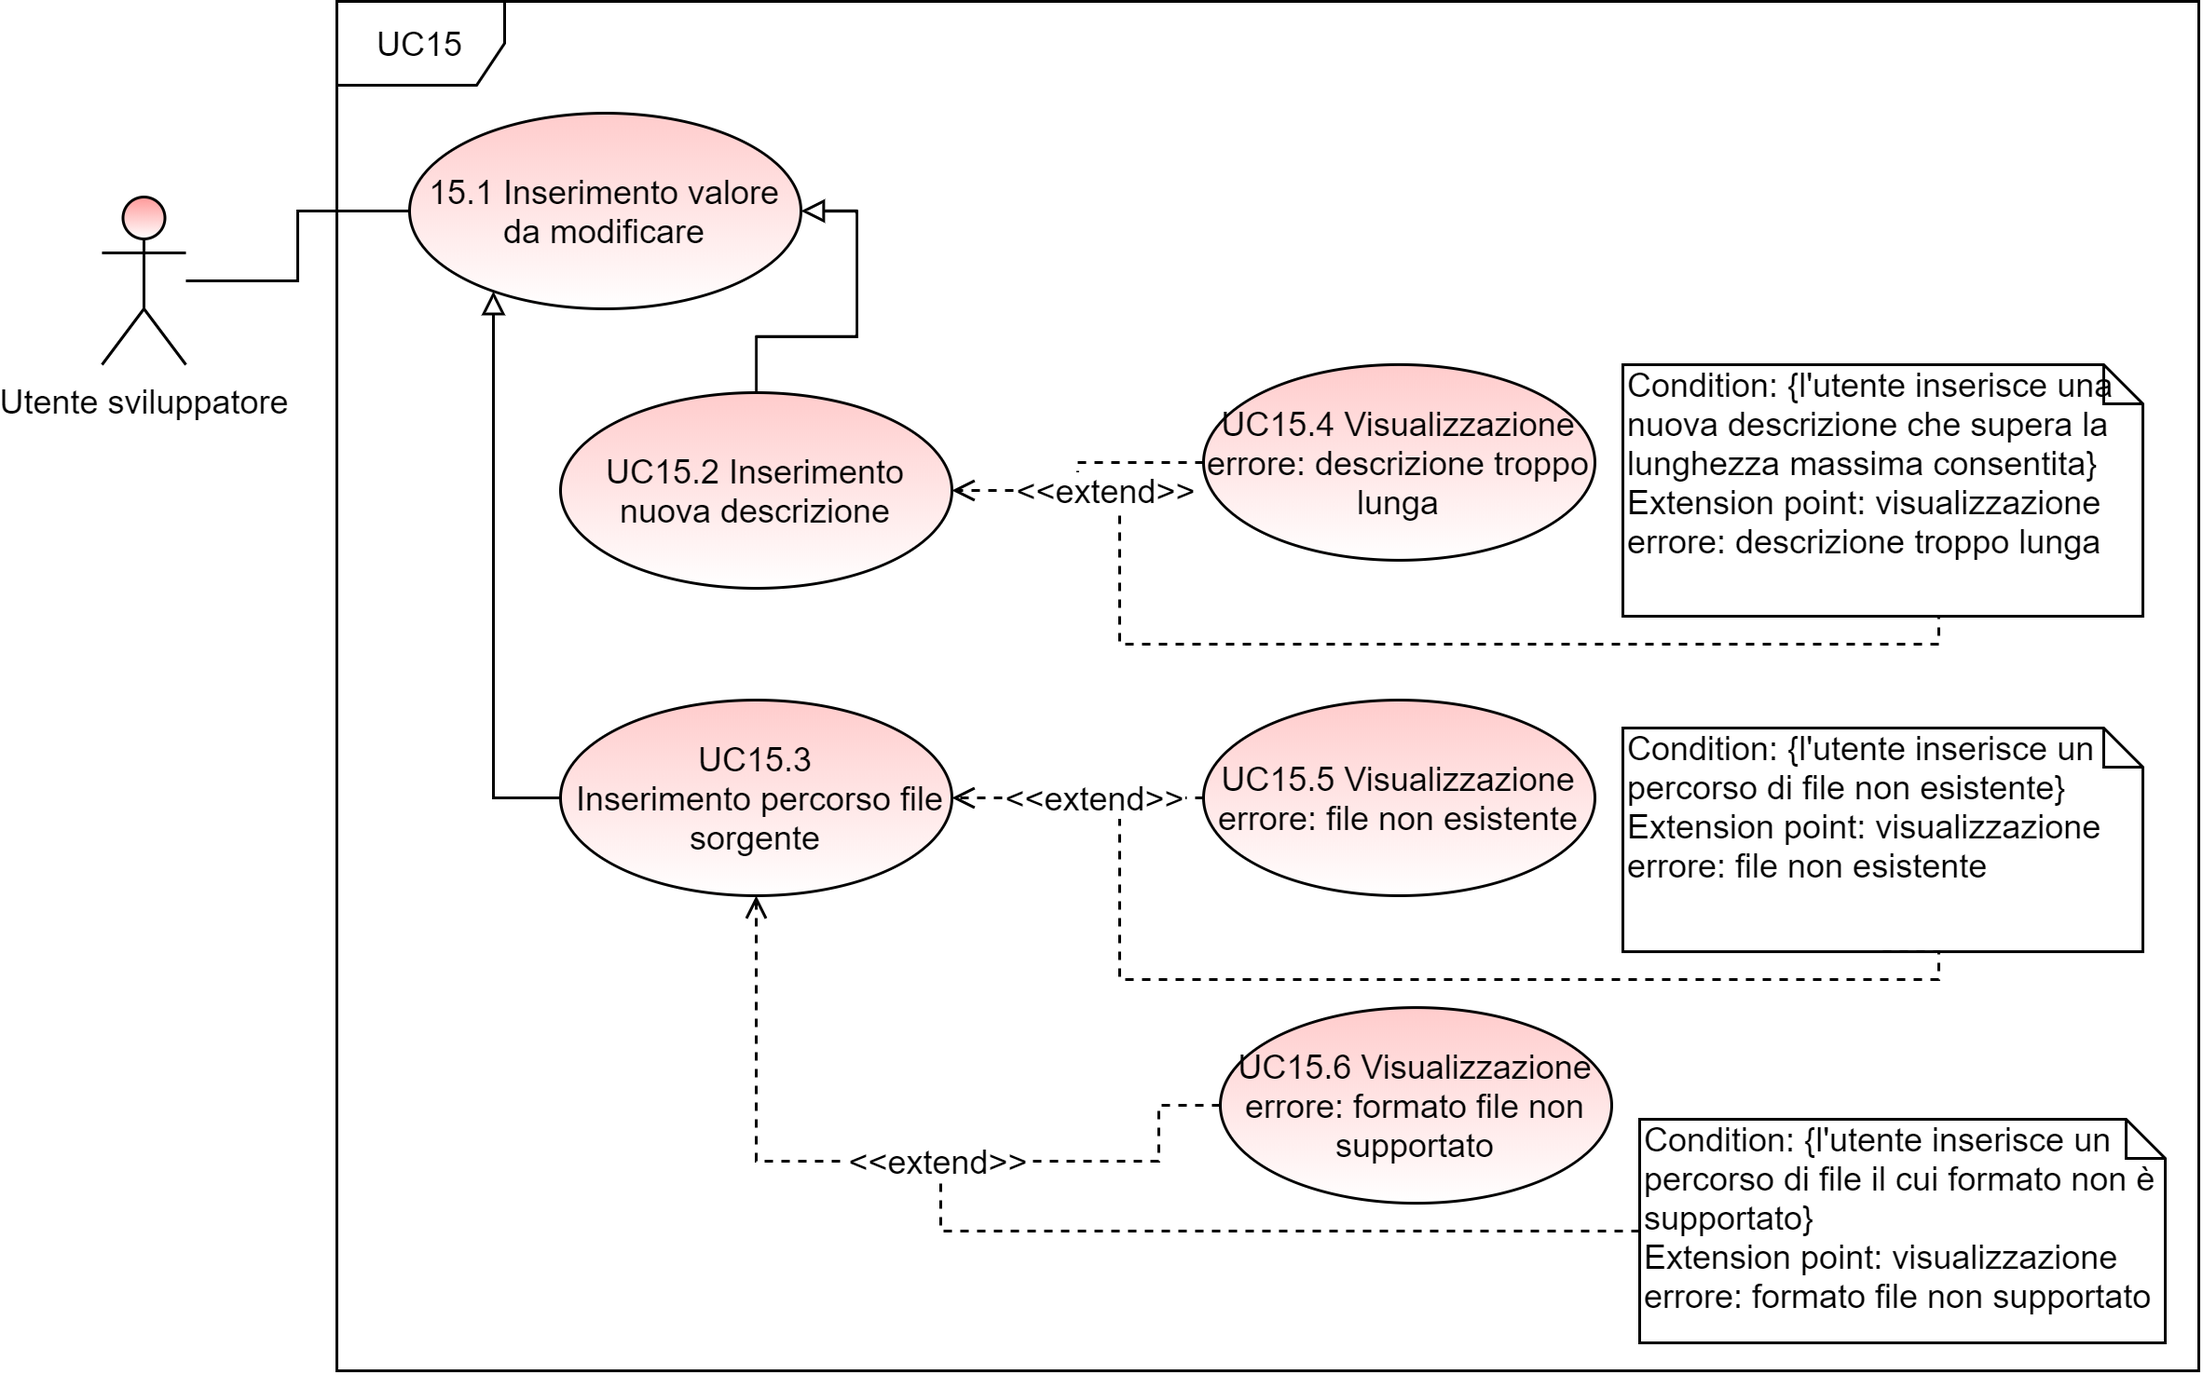
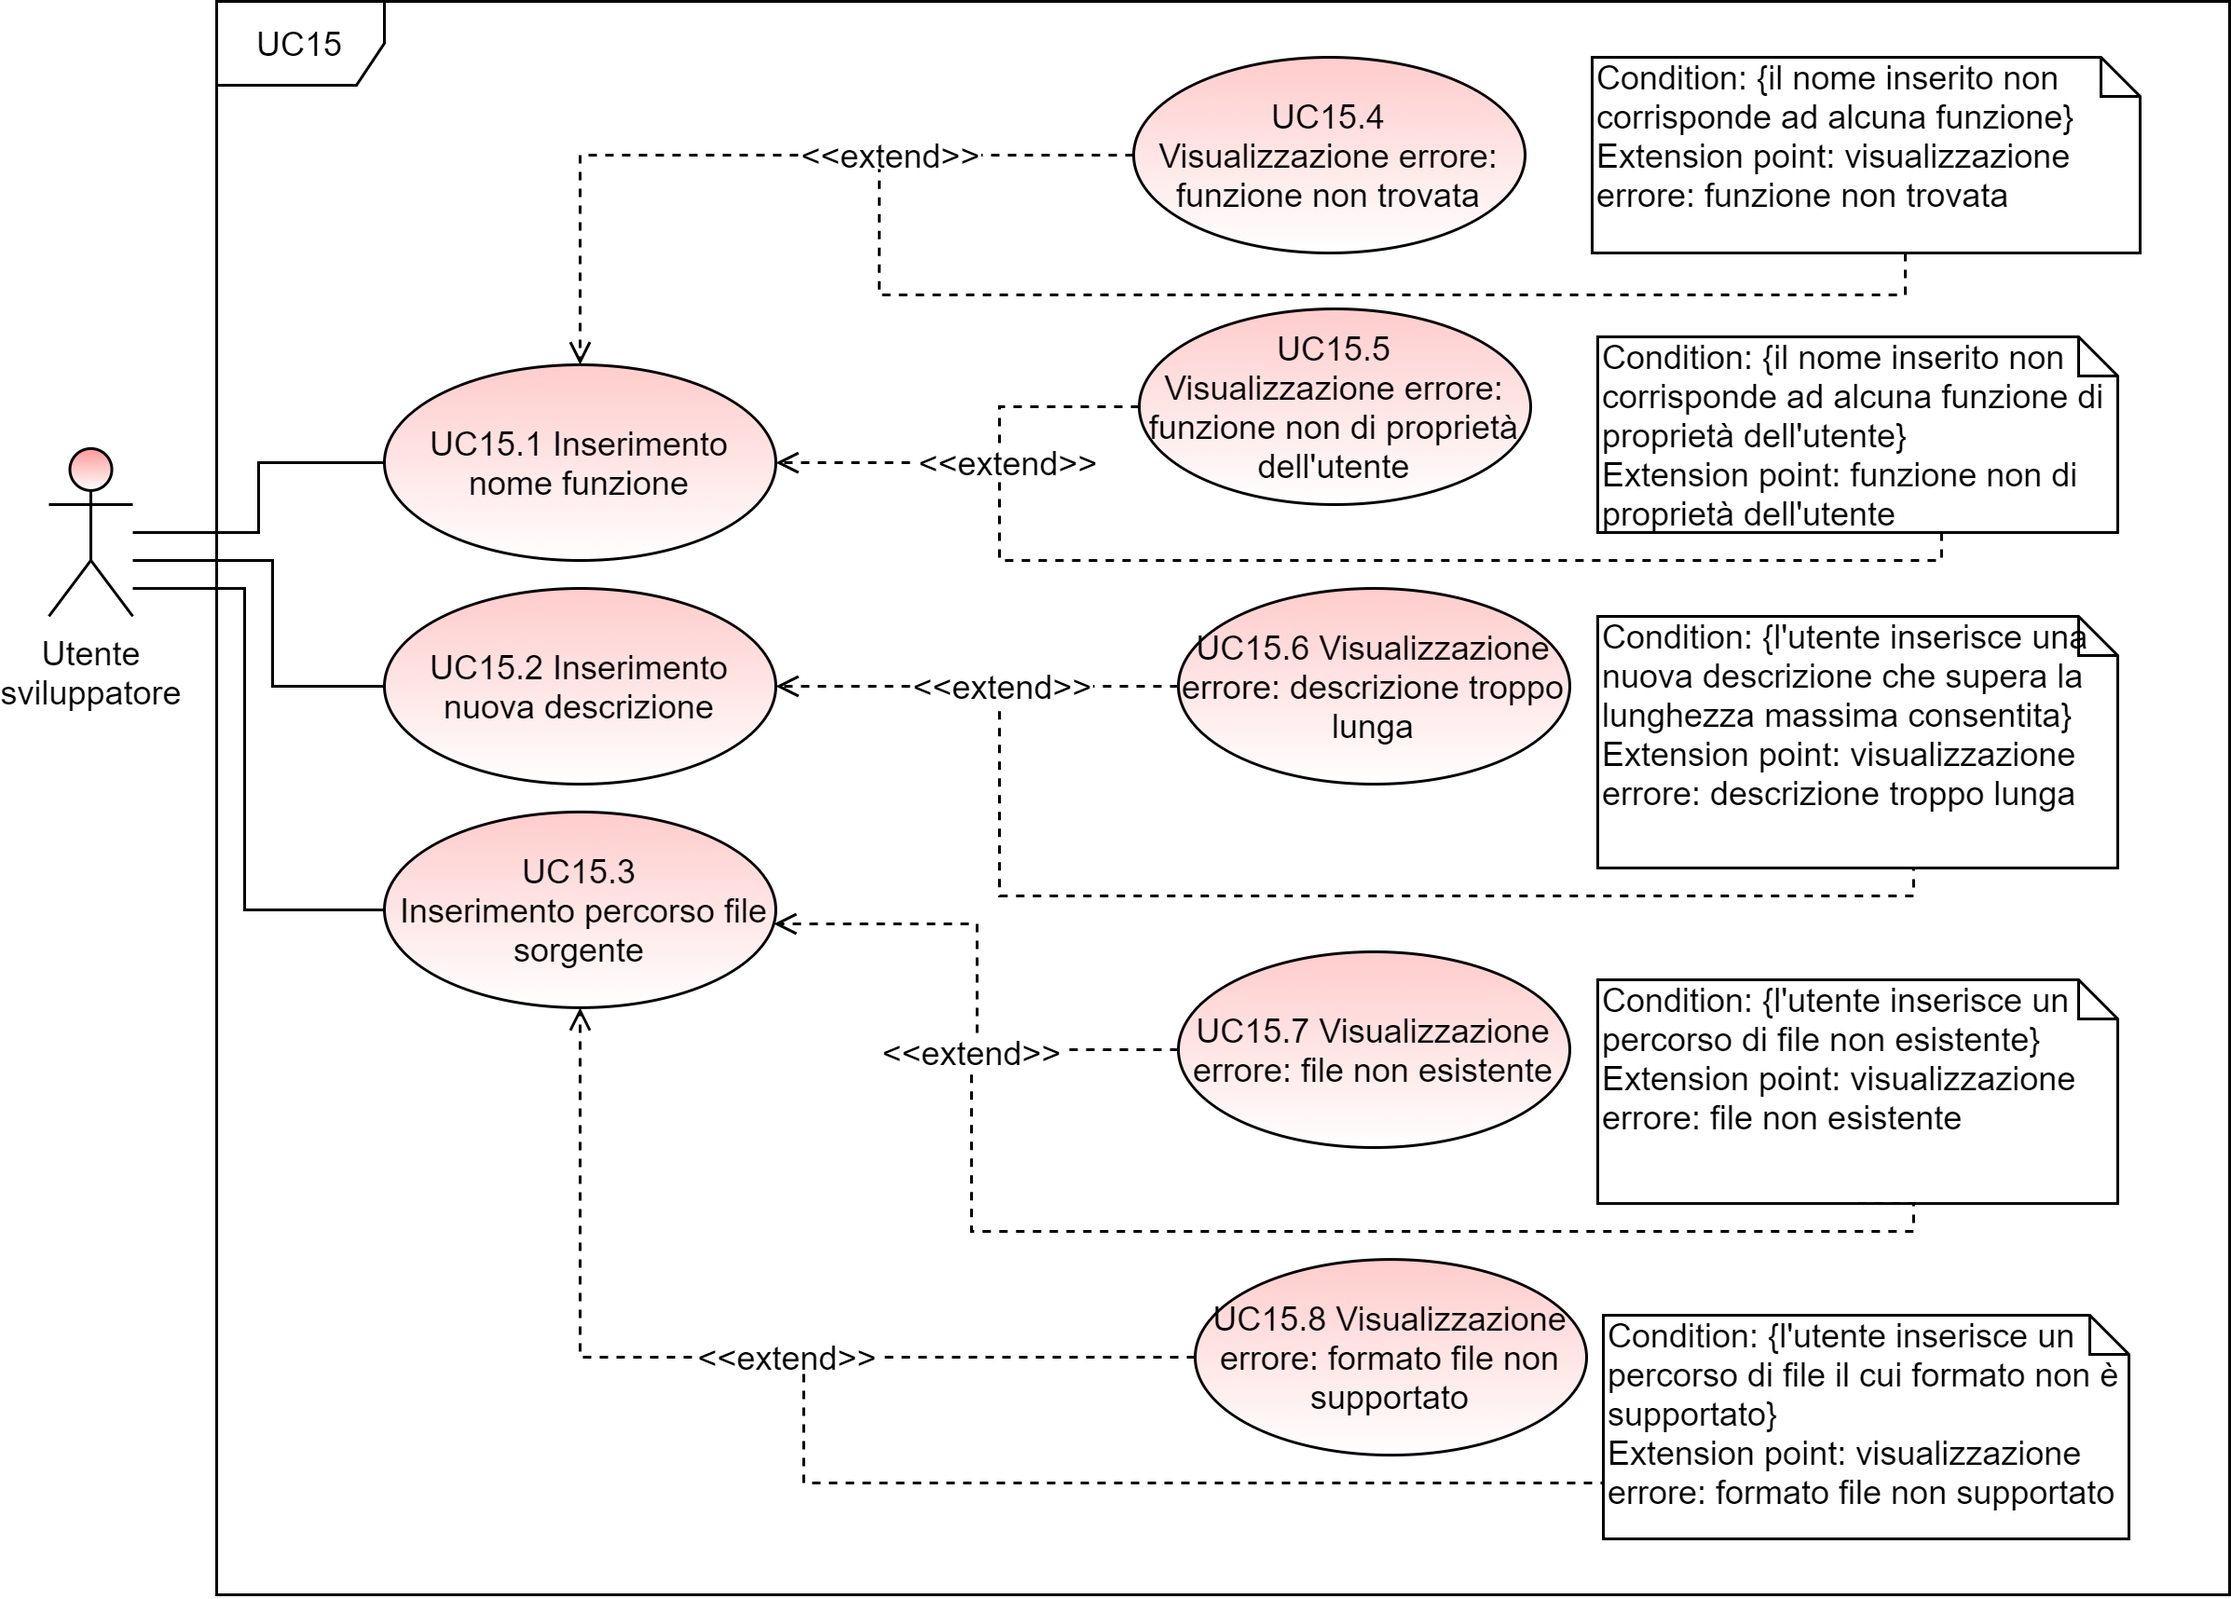
Correzione UC15 e figura 13.2.11 close #218 close #219

diff --git a/Esterni/Analisi_dei_requisiti/res/sections/UC/UC15.1.tex b/Esterni/Analisi_dei_requisiti/res/sections/UC/UC15.1.tex
@@ -1,18 +1,13 @@
-\subsubsection{UC15.1 - Inserimento valore da modificare}
-\begin{figure}[H]
-	\centering
-	\includegraphics[scale=\ucs]{./res/img/UC15-1.png}
-	\caption {UC15.1 - Inserimento valore da modificare}
-\end{figure}
+\subsubsection{UC15.1 - Inserimento nome funzione }
 \begin{itemize}
 	\item \textbf{Attori primari:} \us{};
-	\item \textbf{Descrizione:} a seguito dell'inserimento del comando \edit{} l’utente procede con l’inserimento del nome della funzione considerata e delle modifiche da apportare; 
-	\item \textbf{Scenario principale:} l'utente inserisce il comando \edit{} seguito dal nome della funzione e dalle infrormazioni da aggiornare; 
-	\item \textbf{Specializzazioni:} 
+	\item \textbf{Descrizione:} l’utente inserisce il nome della funzione da modificare;
+	\item \textbf{Scenario principale:} l’utente inserisce il nome della funzione da modificare;
+	\item \textbf{Estensioni:} 
 	\begin{itemize}
-		\item \textbf{UC15.2:} l’utente vuole modificare la descrizione della funzione considerata; 
-		\item \textbf{UC15.3:} l’utente vuole modificare il codice della funzione. 
+		\item \textbf{UC15.4:} nel caso in cui il nome inserito non corrisponda ad alcuna funzione viene mostrato un messaggio di errore; 
+		\item \textbf{UC15.5:} se il nome inserito non corrisponde ad una funzione di proprietà dell'utente, esso viene avvisato tramite un apposito messaggio di errore.
 	\end{itemize}
-	\item \textbf{Precondizione:} l’utente ha inserito all’interno della CLI\ped{\textit{G}} il comando \edit{}; 
-	\item \textbf{Postcondizione:} l’utente ha inserito correttamente le nuove informazioni relative alla funzione.
+	\item \textbf{Precondizione:} l’utente ha inserito all’interno della CLI\ped{\textit{G}} il comando \edit{};
+	\item \textbf{Postcondizione:} l’utente ha inserito correttamente il nome della funzione considerata.
 \end{itemize}

diff --git a/Esterni/Analisi_dei_requisiti/res/sections/UC/UC15.3.tex b/Esterni/Analisi_dei_requisiti/res/sections/UC/UC15.3.tex
@@ -1,13 +1,13 @@
 \subsubsection{UC15.3 - Inserimento percorso file sorgente}
 \begin{itemize}
 	\item \textbf{Attori primari:} \us{};
-	\item \textbf{Descrizione:} l'utente inserisce il comando \pedit{} \texttt{–c file\_path} indicando la volontà di voler modificare il codice associato alla funzione tramite il flag \texttt{-c}, e inserendo successivamente il percorso del file sorgente nel campo \texttt{file\_path}; 
-	\item \textbf{Scenario principale:} l'utente inserisce il percorso del file contente il codice aggiornato dalla funzione; 
+	\item \textbf{Descrizione:} l'utente inserisce il percorso del file sorgente contenente il codice aggiornato della funzione che desidera modificare;
+	\item \textbf{Scenario principale:} l'utente inserisce il percorso del file contenente il codice aggiornato dalla funzione; 
 	\item \textbf{Estensioni:} 
 	\begin{itemize}
-		\item \textbf{UC15.5:} se l'utente inserisce il percorso di un file non presente viene visualizzato un apposito messaggio di errore;
-		\item \textbf{UC15.6:} l’utente inserisce un percorso di file il cui formato non è supportato dal sistema. Viene di conseguenza visualizzato un messaggio di errore.
+		\item \textbf{UC15.7:} se l'utente inserisce il percorso di un file non presente viene visualizzato un apposito messaggio di errore;
+		\item \textbf{UC15.8:} l’utente inserisce un percorso di file il cui formato non è supportato dal sistema. Viene di conseguenza visualizzato un messaggio di errore.
 	\end{itemize}
-	\item \textbf{Precondizione:} l’utente ha inserito all’interno della CLI\ped{\textit{G}} il comando \edit{}; 
+	\item \textbf{Precondizione:} l’utente ha inserito all’interno della CLI\ped{\textit{G}} il comando \edit{} seguito dal flag \texttt{-c}; 
 	\item \textbf{Postcondizione:} l’utente ha inserito il percorso del file contenente il codice aggiornato della funzione.
 \end{itemize}

diff --git a/Esterni/Analisi_dei_requisiti/res/sections/UC/UC15.2.tex b/Esterni/Analisi_dei_requisiti/res/sections/UC/UC15.2.tex
@@ -1,12 +1,12 @@
 \subsubsection{UC15.2 - Inserimento nuova descrizione}
 \begin{itemize}
 	\item \textbf{Attori primari:} \us{};
-	\item \textbf{Descrizione:} l'utente inserisce il comando \pedit{} \texttt{–d new\_desc} indicando la volontà di voler modificare la descrizione associata alla funzione tramite il flag \texttt{-d}, e inserendo successivamente la nuova descrizione nel campo new\_desc;
+	\item \textbf{Descrizione:} l'utente inserisce la nuova descrizione associata alla funzione che desidera modificare;
 	\item \textbf{Scenario principale:} l’utente inserisce la nuova descrizione;  
 	\item \textbf{Estensioni:} 
 	\begin{itemize}
-		\item \textbf{UC15.4:} se l’utente inserisce una nuova descrizione che supera la lunghezza massima consentita, viene visualizzato un apposito messaggio di errore. 
+		\item \textbf{UC15.6:} se l’utente inserisce una nuova descrizione che supera la lunghezza massima consentita, viene visualizzato un apposito messaggio di errore. 
 	\end{itemize}
-	\item \textbf{Precondizione:} l’utente ha inserito all’interno della CLI\ped{\textit{G}} il comando \edit{};
+	\item \textbf{Precondizione:} l’utente ha inserito all’interno della CLI\ped{\textit{G}} il comando \edit{} seguito dal flag \texttt{-d};
 	\item \textbf{Postcondizione:} l’utente ha inserito correttamente la nuova descrizione.
 \end{itemize}

diff --git a/Esterni/Analisi_dei_requisiti/res/sections/UC/UC15.4.tex b/Esterni/Analisi_dei_requisiti/res/sections/UC/UC15.4.tex
@@ -1,8 +1,8 @@
-\subsubsection{UC15.4 - Visualizzazione errore: descrizione troppo lunga}
+\subsubsection{UC15.4 - Visualizzazione errore: funzione non trovata}
 \begin{itemize}
 	\item \textbf{Attori primari:} \us{};
-	\item \textbf{Descrizione:} dopo aver inserito una descrizione di lunghezza maggiore rispetto a quella massima consentita l’utente visualizza un messaggio di errore; 
-	\item \textbf{Scenario principale:} viene visualizzato un messaggio di errore che indica l’eccessiva lunghezza della descrizione inserita;  
-	\item \textbf{Precondizione:} l’utente ha inserito la nuova descrizione della funzione;  
-	\item \textbf{Postcondizione:} viene mostrato all’utente un messaggio che descrive l’errore considerato.  
+	\item \textbf{Descrizione:} dopo aver inserito il nome di una funzione non presente all’interno della piattaforma \textit{Etherless}, l’utente visualizza un messaggio di errore; 
+	\item \textbf{Scenario principale:} viene mostrato un messaggio di errore che informa l’utente dell’assenza della funzione precedentemente indicata;  
+	\item \textbf{Precondizione:} il nome inserito dall’utente non corrisponde ad alcuna funzione;
+	\item \textbf{Postcondizione:} la CLI\ped{\textit{G}} riporta un messaggio che descrive l’errore considerato. 
 \end{itemize}

diff --git a/Esterni/Analisi_dei_requisiti/res/sections/UC/UC15.5.tex b/Esterni/Analisi_dei_requisiti/res/sections/UC/UC15.5.tex
@@ -1,8 +1,8 @@
-\subsubsection{UC15.5 - Visualizzazione errore: file non esistente}
+\subsubsection{UC15.5 - Visualizzazione errore: funzione non di proprietà dell’utente}
 \begin{itemize}
 	\item \textbf{Attori primari:} \us{};
-	\item \textbf{Descrizione:} a seguito dell’inserimento del percorso di un file non esistente, viene visualizzato un messaggio di errore;  
-	\item \textbf{Scenario principale:} viene mostrato un messaggio di errore che informa l’utente dell’assenza del file indicato; 
-	\item \textbf{Precondizione:} l’utente ha inserito il percorso del file contenente il codice aggiornato della funzione considerata;  
-	\item \textbf{Postcondizione:} la CLI\ped{\textit{G}} riporta un messaggio di errore. 
+	\item \textbf{Descrizione:} a seguito dell’inserimento di un nome relativo a una funzione non di proprietà dell’utente, viene visualizzato un errore;
+	\item \textbf{Scenario principale:} viene visualizzato a schermo un messaggio di errore che informa l’utente che il nome inserito si riferisce ad una funzione non di sua proprietà;
+	\item \textbf{Precondizione:} l’utente ha inserito il nome di una funzione non di sua proprietà; 
+	\item \textbf{Postcondizione:} viene visualizzato un messaggio di errore. 
 \end{itemize}

diff --git a/Esterni/Analisi_dei_requisiti/res/sections/UC/UC15.6.tex b/Esterni/Analisi_dei_requisiti/res/sections/UC/UC15.6.tex
@@ -1,8 +1,8 @@
-\subsubsection{UC15.6 - Visualizzazione errore: formato non supportato}
+\subsubsection{UC15.6 - Visualizzazione errore: descrizione troppo lunga}
 \begin{itemize}
 	\item \textbf{Attori primari:} \us{};
-	\item \textbf{Descrizione:} l’utente inserisce un percorso di file di formato non supportato dal servizio. Il sistema visualizza un messaggio di errore relativo al formato errato;
-	\item \textbf{Scenario principale:} viene visualizzato un messaggio di errore relativo al formato errato;
-	\item \textbf{Precondizione:} l'utente inserisce un percorso di file di formato non supportato;
-	\item \textbf{Postcondizione:} viene mostrato un messaggio di errore. 
+	\item \textbf{Descrizione:} dopo aver inserito una descrizione di lunghezza maggiore rispetto a quella massima consentita l’utente visualizza un messaggio di errore; 
+	\item \textbf{Scenario principale:} viene visualizzato un messaggio di errore che indica l’eccessiva lunghezza della descrizione inserita;  
+	\item \textbf{Precondizione:} l’utente ha inserito la nuova descrizione della funzione;  
+	\item \textbf{Postcondizione:} viene mostrato all’utente un messaggio che descrive l’errore considerato.  
 \end{itemize}

diff --git a/Esterni/Analisi_dei_requisiti/config/commands.tex b/Esterni/Analisi_dei_requisiti/config/commands.tex
@@ -1,10 +1,10 @@
 %Lista dei comandi personalizzati
 \newcommand{\docTitle}{Analisi dei Requisiti}
-\newcommand{\docVersion}{2.0.0}
-\newcommand{\approv}{\AZ{}}
+\newcommand{\docVersion}{2.0.1}
+\newcommand{\approv}{}
 \newcommand{\ver}{\AS{} \\ & \FJ{} \\ & \MP{} \\ & \AZ{}\\ & \NF{}}
 \newcommand{\red}{\EG{} \\ & \AZ{}}
-\newcommand{\state}{Approvato}
+\newcommand{\state}{}
 \newcommand{\use}{Esterno}
 \newcommand{\desc}{Analisi dei requisiti del gruppo \Gruppo{} per la realizzazione del progetto \NomeProgetto}
 \newcommand{\destinatari}{\Gruppo\\&\Proponente\\& Prof. Tullio Vardanega\\& Prof. Riccardo Cardin}
@@ -39,7 +39,7 @@
 \newcommand{\psearch}{\texttt{search keyword}}
 \newcommand{\pdelete}{\texttt{delete function\_name}}
 \newcommand{\plista}{\texttt{list -m}}
-\newcommand{\pedit}{\texttt{edit function\_name}}
+\newcommand{\pedit}{\texttt{edit function\_name -d new\_description -c source\_path}}
 
 \newcommand{\ucs}{0.19}
 

diff --git a/Esterni/Analisi_dei_requisiti/res/sections/UC/UC15.tex b/Esterni/Analisi_dei_requisiti/res/sections/UC/UC15.tex
@@ -10,9 +10,9 @@
 	\item \textbf{Descrizione:} l’utente richiede di modificare delle informazioni relative ad una sua funzione tramite il comando: \pedit{};
 	\item \textbf{Scenario principale:} 
 	\begin{itemize}
-		\item l’utente richiede la modifica di un’informazione relativa ad una propria funzione;
-		\item il sistema modifica correttamente tale informazione.  
+		\item l’utente richiede la modifica delle informazioni relative ad una sua funzione;
+		\item il sistema apporta le modifiche richieste.  
 	\end{itemize}
 	\item \textbf{Precondizione:} l’utente ha eseguito il deploy\ped{\textit{G}} di almeno una funzione;
-	\item \textbf{Postcondizione:} l’utente modifica correttamente la funzione. 
+	\item \textbf{Postcondizione:} la funzione viene correttamente modificata. 
 \end{itemize}

diff --git a/Esterni/Analisi_dei_requisiti/res/sections/03-CasiUso.tex b/Esterni/Analisi_dei_requisiti/res/sections/03-CasiUso.tex
@@ -73,16 +73,17 @@ In questa sezione vengono elencati tutti i casi d'uso\ped{\textit{G}} individuat
 \input{./res/sections/UC/UC14.6.tex}
 \input{./res/sections/UC/UC14.7.tex}
 \input{./res/sections/UC/UC14.8.tex}
+
 \input{./res/sections/UC/UC15.tex}
 \input{./res/sections/UC/UC15.1.tex}
-\input{./res/sections/UC/UC15.1.1.tex}
-\input{./res/sections/UC/UC15.1.2.tex}
-\input{./res/sections/UC/UC15.1.3.tex}
 \input{./res/sections/UC/UC15.2.tex}
 \input{./res/sections/UC/UC15.3.tex}
 \input{./res/sections/UC/UC15.4.tex}
 \input{./res/sections/UC/UC15.5.tex}
 \input{./res/sections/UC/UC15.6.tex}
+\input{./res/sections/UC/UC15.7.tex}
+\input{./res/sections/UC/UC15.8.tex}
+
 \input{./res/sections/UC/UC16.tex}
 \input{./res/sections/UC/UC16.1.tex}
 \input{./res/sections/UC/UC16.2.tex}

diff --git a/Esterni/Analisi_dei_requisiti/res/sections/UC/UC15.7.tex b/Esterni/Analisi_dei_requisiti/res/sections/UC/UC15.7.tex
@@ -1,0 +1,8 @@
+\subsubsection{UC15.7 - Visualizzazione errore: file non esistente}
+\begin{itemize}
+	\item \textbf{Attori primari:} \us{};
+	\item \textbf{Descrizione:} a seguito dell’inserimento del percorso di un file non esistente, viene visualizzato un messaggio di errore;  
+	\item \textbf{Scenario principale:} viene mostrato un messaggio di errore che informa l’utente dell’assenza del file indicato; 
+	\item \textbf{Precondizione:} l’utente ha inserito il percorso del file contenente il codice aggiornato della funzione considerata;  
+	\item \textbf{Postcondizione:} la CLI\ped{\textit{G}} riporta un messaggio di errore. 
+\end{itemize}

diff --git a/Esterni/Analisi_dei_requisiti/res/sections/UC/UC15.8.tex b/Esterni/Analisi_dei_requisiti/res/sections/UC/UC15.8.tex
@@ -1,0 +1,8 @@
+\subsubsection{UC15.8 - Visualizzazione errore: formato non supportato}
+\begin{itemize}
+	\item \textbf{Attori primari:} \us{};
+	\item \textbf{Descrizione:} l’utente inserisce un percorso di file di formato non supportato dal servizio. Il sistema visualizza un messaggio di errore relativo al formato errato;
+	\item \textbf{Scenario principale:} viene visualizzato un messaggio di errore relativo al formato errato;
+	\item \textbf{Precondizione:} l'utente inserisce un percorso di file di formato non supportato;
+	\item \textbf{Postcondizione:} viene mostrato un messaggio di errore. 
+\end{itemize}

diff --git a/Esterni/Analisi_dei_requisiti/res/sections/changelog.tex b/Esterni/Analisi_dei_requisiti/res/sections/changelog.tex
@@ -18,6 +18,8 @@
 	\endhead
 
 	% contenuto tabella
+	2.0.1 & 2020-05-25 & \AZ{} & \textit{Programmatore} & Correzione UC15 \\
+	
 	2.0.0 & 2020-05-07 & \AZ{} & \textit{Responsabile} & Approvazione del documento \\
 
 	1.1.0 & 2020-05-07 & \AS{} & \textit{Verificatore} & Verifica del documento \\
